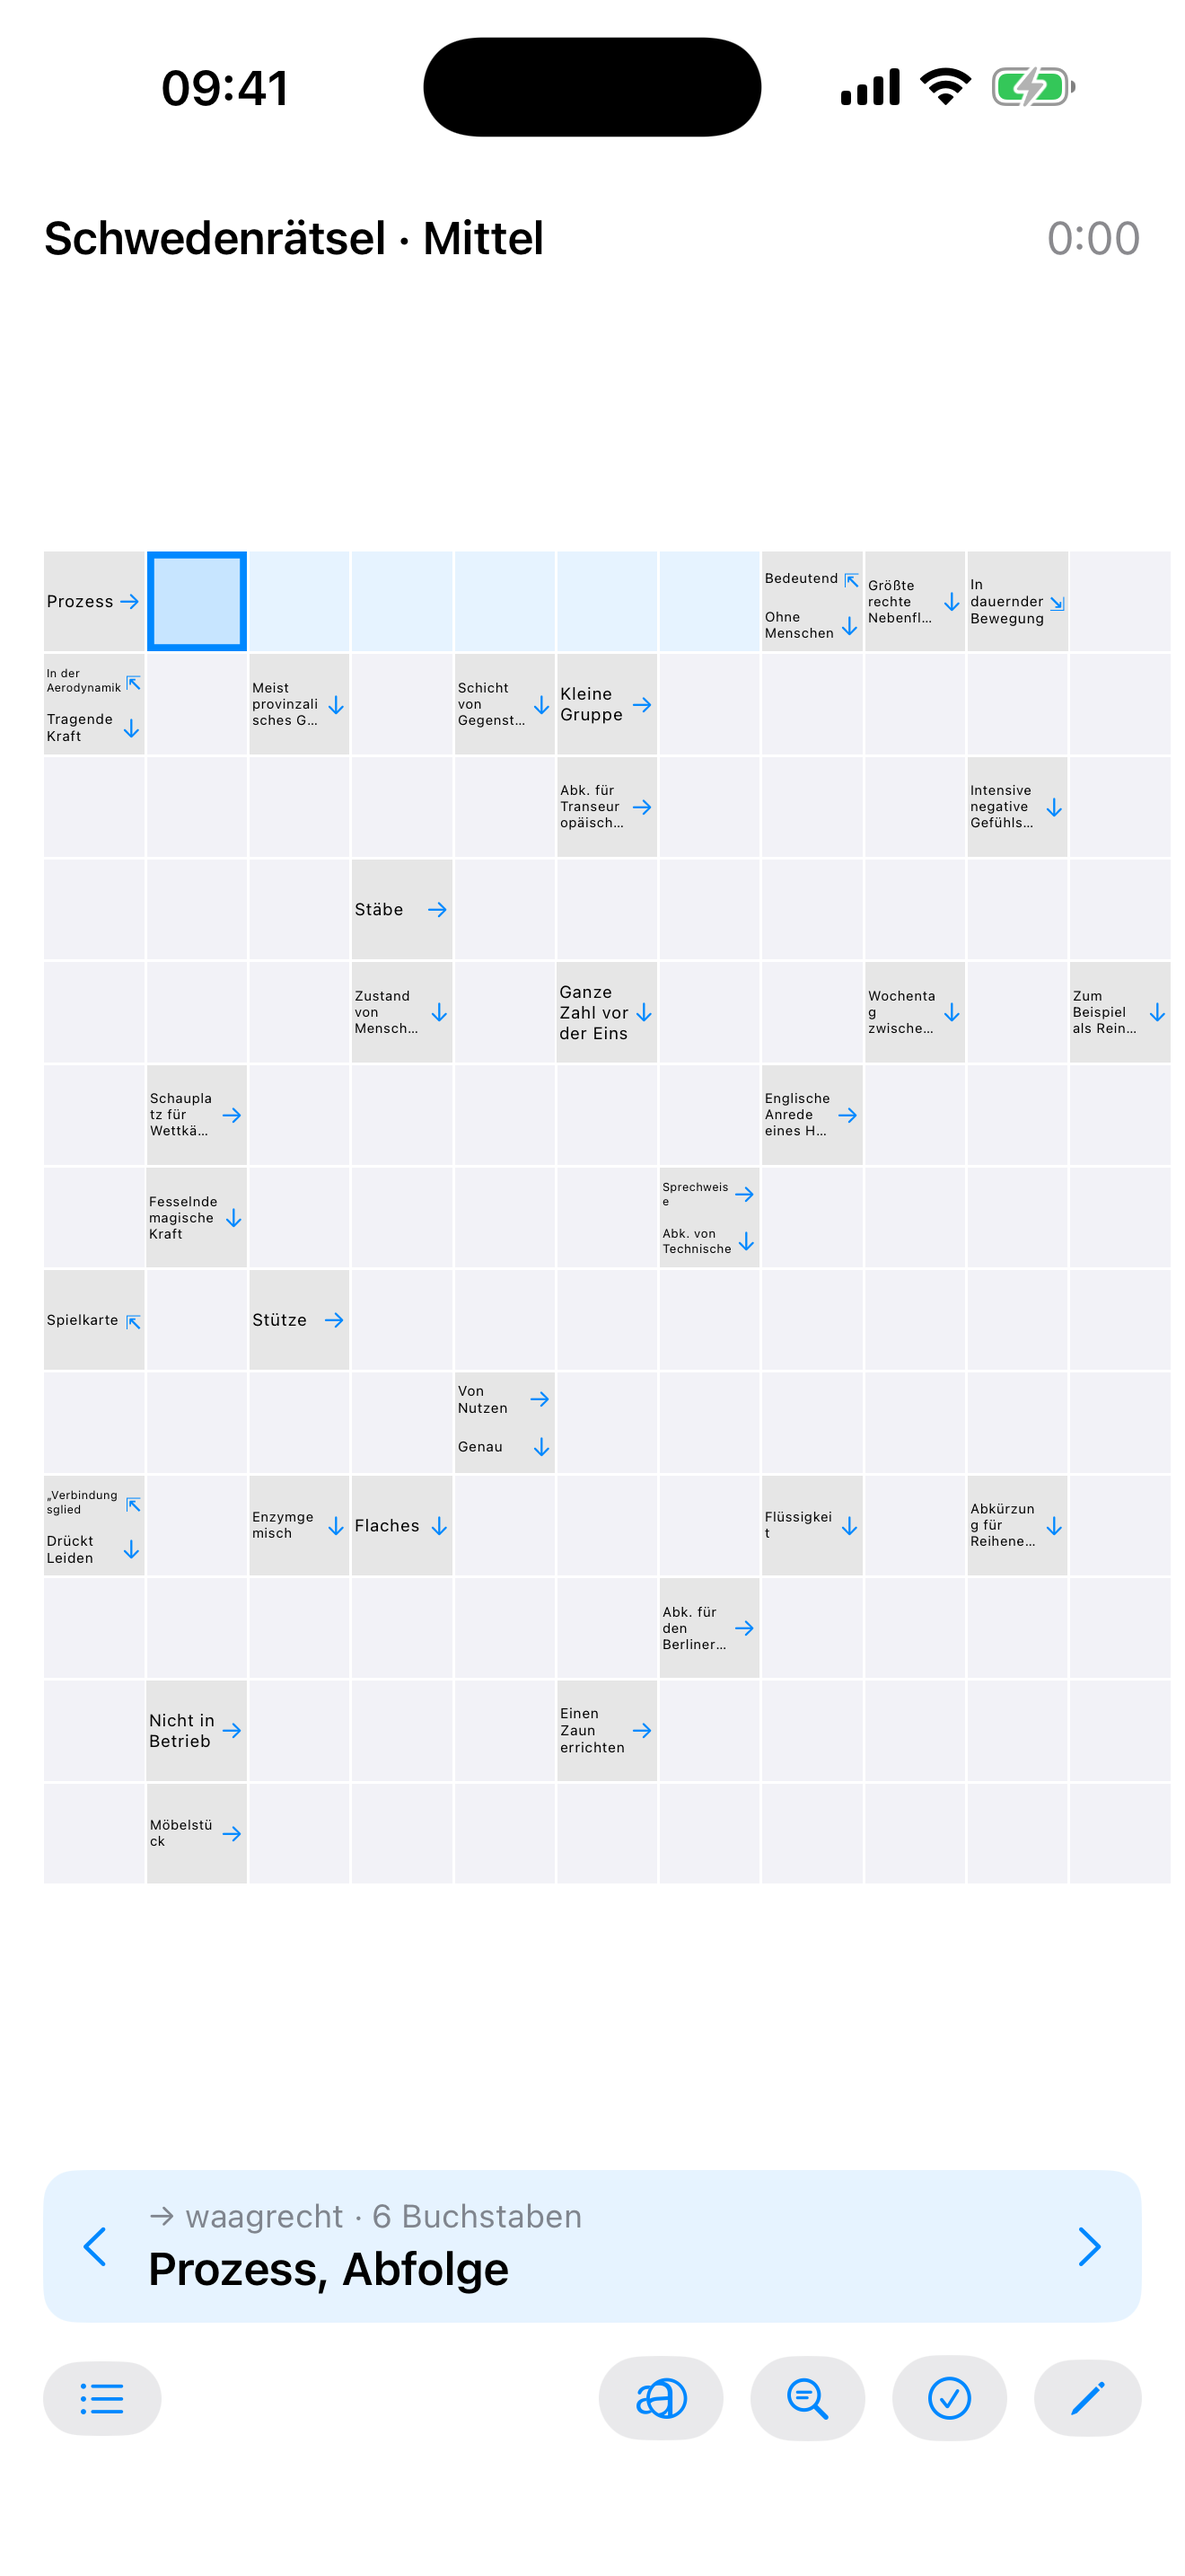
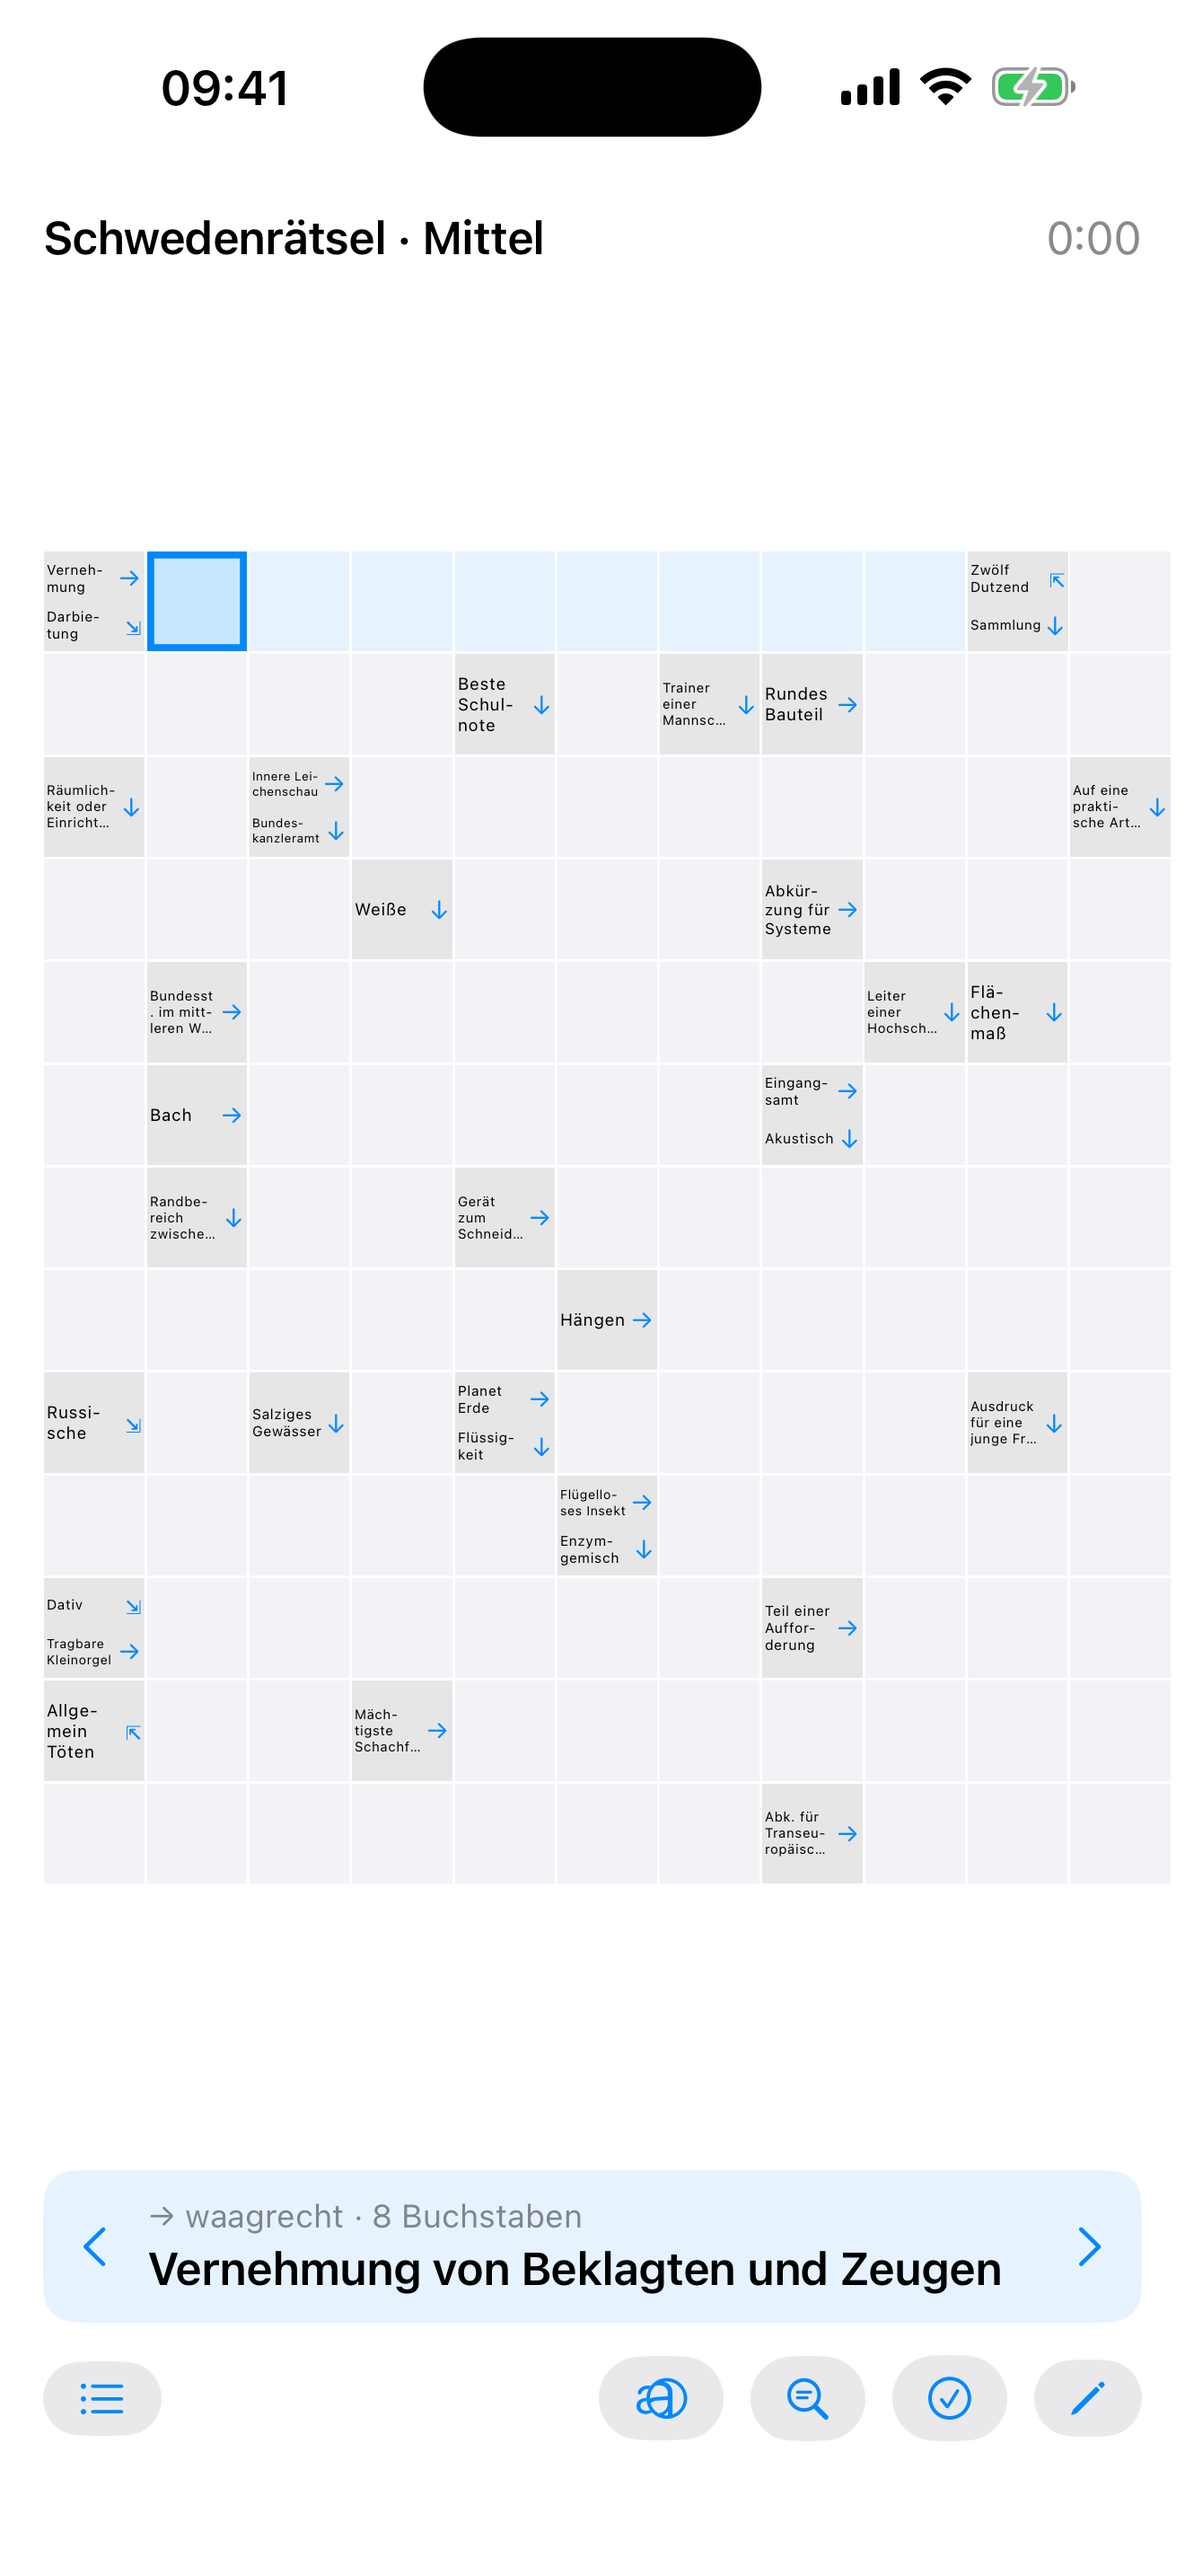
Wortbrüche behoben: Trennstellen aus den Sprachdaten des Systems
Im gerenderten Rätsel stand „Möbelstü ck", „Flüssigkei t", „Sprechweis e".
Zwei Ursachen, die sich gegenseitig verdeckt haben.

`minimumScaleFactor(0.5)` schrumpfte jede Frage, bis sie in die Zelle passte.
Damit war der Breiten-Etat aus dem Katalog wirkungslos und die Schrift unlesbar —
jetzt 0,8. Darunter lag das eigentliche Problem: es gab keine Trennstellen. Der
Etat einer Doppelzelle ist 9.500 Tausendstel-Em auf zwei Zeilen, also 4,75 Em je
Zeile und bei deutschem Text etwa neun Zeichen. „Möbelstück" hat zehn, und SwiftUI
brach ohne Strich.

Filtern wäre der falsche Ort gewesen: ein hartes „längstes Wort passt in eine
Zeile" verwirft rund 90 % des Doppelzellen-Pools. Die Zelle ist zu schmal für die
Sprache, nicht der Katalog zu schlecht. Deshalb löst es der Renderer, mit weichen
Trennzeichen aus `CFStringGetHyphenationLocationBeforeIndex` — Sprachdaten des
Systems statt selbstgebauter Regeln:

    Möbel·stück            Ver·bin·dungs·glied
    Flüs·sig·keit          Bun·des·au·to·bahn·tank·stelle
    Sprech·weise           Gemein·de·ver·wal·tung

Im Rätsel steht jetzt „Verneh-mung", „Bundes-kanzleramt", „Flä-chen-maß". Die
Trennung läuft dort, wo der Zellentext entsteht, nicht im View-Body: `body` läuft
bei jeder Eingabe neu, die Trennung ist je Frage einmal nötig. Ein Cache mit
Riegel gegen unbegrenztes Wachsen liegt darunter.

Sechs Tests sichern es ab, darunter die Zusage, dass außer dem Trennzeichen kein
[…]

diff --git a/Packages/KreuzwortUI/Sources/Surface/Hyphenation.swift b/Packages/KreuzwortUI/Sources/Surface/Hyphenation.swift
@@ -1,0 +1,106 @@
+import Foundation
+
+/// Weiche Trennstellen in Fragen für Schwedenrätsel-Zellen.
+///
+/// **Das Problem, gemessen.** Der Breiten-Etat einer Doppelzelle ist 9.500
+/// Tausendstel-Em und erlaubt zwei Zeilen — also 4,75 Em je Zeile, bei
+/// deutschem Text etwa neun Zeichen. „Möbelstück" hat zehn, und SwiftUI brach
+/// es ohne Trennstrich mitten im Wort: im gerenderten Rätsel stand
+/// „Möbelstü ck", „Flüssigkei t", „Sprechweis e".
+///
+/// **Warum nicht filtern.** Ein hartes Kriterium „längstes Wort passt in eine
+/// Zeile" würde rund 90 % des Doppelzellen-Pools verwerfen — deutsche
+/// Substantive sind länger als neun Zeichen. Die Zelle ist zu schmal für die
+/// Sprache, nicht der Katalog zu schlecht.
+///
+/// **Was stattdessen.** Deutsche Leser erwarten „Möbel-stück". Die Trennstellen
+/// kommen von `CFStringGetHyphenationLocationBeforeIndex` — also aus den
+/// Sprachdaten des Systems, nicht aus selbstgebauten Regeln. Eingefügt wird ein
+/// weiches Trennzeichen (U+00AD): sichtbar nur dort, wo tatsächlich umbrochen
+/// wird, und ohne die Textbreite an anderen Stellen zu verändern.
+public enum Hyphenation {
+    /// Weiches Trennzeichen. Wird nur gezeichnet, wenn an der Stelle umbrochen
+    /// wird — deshalb darf es großzügig gesetzt werden.
+    static let soft: Character = "\u{00AD}"
+
+    /// Ab dieser Wortlänge lohnt Trennen. Kürzere Wörter passen in jede Zeile,
+    /// und ein Trennstrich in „Stadt" wäre nur Unruhe.
+    static let minimumWordLength = 9
+
+    /// Kein Wortteil kürzer als das. „E-lefant" ist korrekt getrennt und liest
+    /// sich trotzdem schlecht.
+    static let minimumFragment = 3
+
+    /// Cache: dieselbe Frage wird bei jedem Neuzeichnen des Gitters gebraucht,
+    /// und die Trennung kostet einen Aufruf ins System je Position.
+    private static let cache = Cache()
+
+    private final class Cache: @unchecked Sendable {
+        private var entries: [String: String] = [:]
+        private let lock = NSLock()
+
+        func value(for key: String, build: (String) -> String) -> String {
+            lock.withLock {
+                if let hit = entries[key] { return hit }
+                let made = build(key)
+                // Ein Rätsel hat höchstens ein paar Dutzend Fragen; die Grenze
+                // ist nur ein Riegel gegen unbegrenztes Wachsen über viele
+                // Rätsel hinweg.
+                if entries.count > 4_000 { entries.removeAll() }
+                entries[key] = made
+                return made
+            }
+        }
+    }
+
+    /// Setzt weiche Trennstellen in alle Wörter, die lang genug sind.
+    ///
+    /// Ohne verfügbare Trenndaten für die Sprache bleibt der Text unverändert —
+    /// dann bricht SwiftUI wie vorher, was schlechter aussieht, aber nichts
+    /// kaputt macht.
+    public static func hyphenated(_ text: String, locale: Locale = .current) -> String {
+        cache.value(for: "\(locale.identifier)|\(text)") { _ in
+            build(text, locale: locale)
+        }
+    }
+
+    private static func build(_ text: String, locale: Locale) -> String {
+        let cfLocale = locale as CFLocale
+        guard CFStringIsHyphenationAvailableForLocale(cfLocale) else { return text }
+        return text.split(separator: " ", omittingEmptySubsequences: false)
+            .map { word in
+                word.count >= minimumWordLength
+                    ? hyphenate(String(word), locale: cfLocale)
+                    : String(word)
+            }
+            .joined(separator: " ")
+    }
+
+    private static func hyphenate(_ word: String, locale: CFLocale) -> String {
+        let utf16 = Array(word.utf16)
+        var positions: [Int] = []
+        // Von hinten nach vorne fragen: die API nennt die Trennstelle **vor**
+        // einem Index, also liefert ein Rückwärtslauf alle Stellen.
+        var index = utf16.count
+        while index > minimumFragment {
+            let location = CFStringGetHyphenationLocationBeforeIndex(
+                word as CFString, index,
+                CFRangeMake(0, utf16.count), 0, locale, nil)
+            guard location != kCFNotFound, location > 0 else { break }
+            if location >= minimumFragment,
+               utf16.count - location >= minimumFragment {
+                positions.append(location)
+            }
+            index = location
+        }
+        guard !positions.isEmpty else { return word }
+
+        var out = ""
+        let breaks = Set(positions)
+        for (offset, unit) in utf16.enumerated() {
+            if breaks.contains(offset) { out.append(soft) }
+            out.append(Character(UnicodeScalar(unit) ?? " "))
+        }
+        return out
+    }
+}

diff --git a/Packages/KreuzwortUI/Tests/HyphenationTests.swift b/Packages/KreuzwortUI/Tests/HyphenationTests.swift
@@ -1,0 +1,61 @@
+import Testing
+import Foundation
+@testable import KreuzwortUI
+
+@Suite("Worttrennung")
+struct HyphenationTests {
+    private let de = Locale(identifier: "de_DE")
+
+    private func parts(_ s: String) -> [String] {
+        s.split(separator: Hyphenation.soft).map(String.init)
+    }
+
+    @Test func longGermanWordsGetBreakPoints() throws {
+        // Die Fälle aus dem gerenderten Rätsel: „Möbelstü ck" stand da, weil
+        // SwiftUI ohne Trennstelle mitten im Wort brach.
+        for word in ["Möbelstück", "Flüssigkeit", "Sprechweise", "Verbindungsglied"] {
+            let out = Hyphenation.hyphenated(word, locale: de)
+            #expect(out.contains(Hyphenation.soft), "keine Trennstelle in \(word)")
+            // Jedes Bruchstück lang genug, „E-lefant" wäre korrekt und schlecht.
+            for part in parts(out) {
+                #expect(part.count >= Hyphenation.minimumFragment,
+                        "zu kurzes Bruchstück in \(out)")
+            }
+        }
+    }
+
+    @Test func shortWordsStayWhole() throws {
+        // Ein Trennstrich in „Stadt" wäre nur Unruhe.
+        for word in ["Stadt", "Eis", "Ufer", "Abbau", "Sonne"] {
+            #expect(!Hyphenation.hyphenated(word, locale: de).contains(Hyphenation.soft))
+        }
+    }
+
+    @Test func textIsUnchangedApartFromSoftHyphens() throws {
+        // Das weiche Trennzeichen ist die einzige erlaubte Änderung — sonst
+        // stimmte die Frage nicht mehr mit dem Katalog überein.
+        let source = "Tiefergelegenes Gelände zwischen Erhebungen"
+        let out = Hyphenation.hyphenated(source, locale: de)
+        #expect(out.filter { $0 != Hyphenation.soft } == source)
+    }
+
+    @Test func wordCountAndSpacesSurvive() throws {
+        let source = "Abk. für Bundesautobahntankstelle"
+        let out = Hyphenation.hyphenated(source, locale: de)
+        #expect(out.split(separator: " ").count == 3)
+        #expect(out.contains(Hyphenation.soft))
+    }
+
+    @Test func repeatedCallsAgree() throws {
+        // Der Cache darf das Ergebnis nicht verändern.
+        let source = "Gemeindeverwaltung"
+        let first = Hyphenation.hyphenated(source, locale: de)
+        #expect(Hyphenation.hyphenated(source, locale: de) == first)
+    }
+
+    @Test func localeWithoutDataLeavesTextAlone() throws {
+        // Kein Absturz und keine erfundene Trennung, wenn Trenndaten fehlen.
+        let out = Hyphenation.hyphenated("Möbelstück", locale: Locale(identifier: "xx_YY"))
+        #expect(out.filter { $0 != Hyphenation.soft } == "Möbelstück")
+    }
+}

diff --git a/Packages/KreuzwortUI/Sources/Views/GridView.swift b/Packages/KreuzwortUI/Sources/Views/GridView.swift
@@ -28,7 +28,10 @@ public struct GridView: View {
         var out: [Cell: [(ArrowKind, String)]] = [:]
         for e in session.puzzle.entries {
             guard let arrow = e.arrow, let owner = e.ownerCell else { continue }
-            out[owner, default: []].append((arrow, e.clueShortText ?? e.clueText))
+            // Trennstellen hier, nicht im Zellen-View: `body` läuft bei jeder
+            // Eingabe neu, die Trennung ist aber je Frage einmal nötig.
+            let clue = Hyphenation.hyphenated(e.clueShortText ?? e.clueText)
+            out[owner, default: []].append((arrow, clue))
         }
         return out.mapValues { $0.map { (arrow: $0.0, text: $0.1) } }
     }

diff --git a/README.md b/README.md
@@ -402,28 +402,39 @@ Der Engpass ist derselbe wie überall in diesem Abschnitt: der Kurzfragen-Pool.
 arrow/leicht wählt aus 151 bis 217 Wörtern je Länge. Wer die Zuverlässigkeit auf
 100 % bringen will, braucht mehr Kurzfragen — nicht mehr Suchheuristik.
 
-**Fragen in Schwedenrätsel-Zellen brechen mitten im Wort.** Sichtbar erst im
-gerenderten Rätsel auf dem iPhone: „Möbelstü ck", „Flüssigkei t", „Sprechweis e",
-„Abk. für Bundesautobahn tankstelle". Zwei Ursachen, die getrennt gehören:
+**Fragen in Schwedenrätsel-Zellen: Wortbrüche behoben, Kürzung bleibt.**
+Im gerenderten Rätsel stand „Möbelstü ck", „Flüssigkei t", „Sprechweis e" — SwiftUI
+brach lange deutsche Wörter ohne Trennstrich. Zwei getrennte Ursachen:
 
-1. `GridView` hatte `minimumScaleFactor(0.5)`. SwiftUI zwang damit jede Frage in
-   die Zelle, indem es sie auf die halbe Größe schrumpfte — der Breiten-Etat aus
-   dem Katalog war wirkungslos, und die Schrift wurde unlesbar. Jetzt 0,8. Das
-   ist eine **Grenze, keine Lösung**: was nicht passt, wird sichtbar gekürzt.
-2. Die eigentliche Ursache: der Etat im Katalog (`singleClueBudget`,
-   `doubleClueBudget`) beschreibt die **Gesamtbreite** eines Textes, nicht die
-   Zeilenbreite der Zelle, in der er landet. Ein einzelnes langes Wort passt
-   deshalb in den Etat und trotzdem in keine Zeile. Solange beides nicht
-   verbunden ist, bleiben Brüche und Kürzungen.
+*Erstens* `minimumScaleFactor(0.5)`: SwiftUI zwang jede Frage in die Zelle, indem
+es sie auf die halbe Größe schrumpfte. Der Breiten-Etat aus dem Katalog war damit
+wirkungslos und die Schrift unlesbar. Jetzt 0,8.
 
-Der Weg dorthin: die Zellenbreite aus der Topologie an die Fragenauswahl
-weitergeben und ein Wort, das keine Zeile füllt, als Ausschlusskriterium führen —
-nicht als Vorliebe, wie es `CatalogClueSource` heute tut. Eine erste Schätzung
-der Kosten („ein Drittel des Etats ist die Zeile") ergab 90 % Ausfall und ist
-damit als Modell widerlegt, nicht als Messung brauchbar. Die Zeilenbreite muss
-aus der Geometrie kommen.
+*Zweitens* die fehlende Trennung. Der Etat einer Doppelzelle ist 9.500
+Tausendstel-Em auf zwei Zeilen — 4,75 Em je Zeile, bei deutschem Text etwa neun
+Zeichen. „Möbelstück" hat zehn. Ein hartes Kriterium „längstes Wort passt in eine
+Zeile" hätte rund 90 % des Doppelzellen-Pools verworfen: die Zelle ist zu schmal
+für die Sprache, nicht der Katalog zu schlecht. Gelöst wird es deshalb im
+Renderer, mit weichen Trennzeichen aus den Sprachdaten des Systems
+(`CFStringGetHyphenationLocationBeforeIndex`, siehe `Hyphenation.swift`). Aus
+„Möbelstü ck" wird „Möbel-stück", aus „Bundeskanzleramt" „Bundes-kanzleramt".
 
-Die klassische Variante ist davon nicht betroffen: dort stehen die Fragen in
+**Was bleibt: zu lange Fragen werden in der Zelle gekürzt** („Randbe-reich
+zwische…"). Zwei Zeilen à 4,75 Em fassen nicht zuverlässig 9,5 Em Text, weil beim
+Umbrechen Platz verlorengeht. Zwei Auswege sind gemessen und beide bezahlt:
+
+* **Etat kürzen** kostet unverhältnismäßig viel: −20 % Breite bedeutet −30 % Pool
+  (Länge 6: 533 → 381 Antworten für arrow/mittel). Dieselbe Größenordnung hatte
+  vorher zwei Kombinationen unfüllbar gemacht.
+* **Kleinere Gitter auf dem Telefon** ist durch die Architektur ausgeschlossen:
+  das Tagesrätsel ist weltweit dasselbe, die Gittergröße darf also nicht vom
+  Gerät abhängen.
+
+Deshalb bleibt die Kürzung, und sie ist vertretbar: die Frageleiste unter dem
+Gitter zeigt die ausgewählte Frage vollständig. Das ist bei Schwedenrätseln auf
+kleinen Schirmen übliche Praxis.
+
+Die klassische Variante ist von allem nicht betroffen — dort stehen die Fragen in
 einer Liste neben dem Gitter und dürfen umbrechen.
 
 **Arrow-Topologien gelingen nicht bei jedem Seed.** Ein einzelner Anlauf auf
